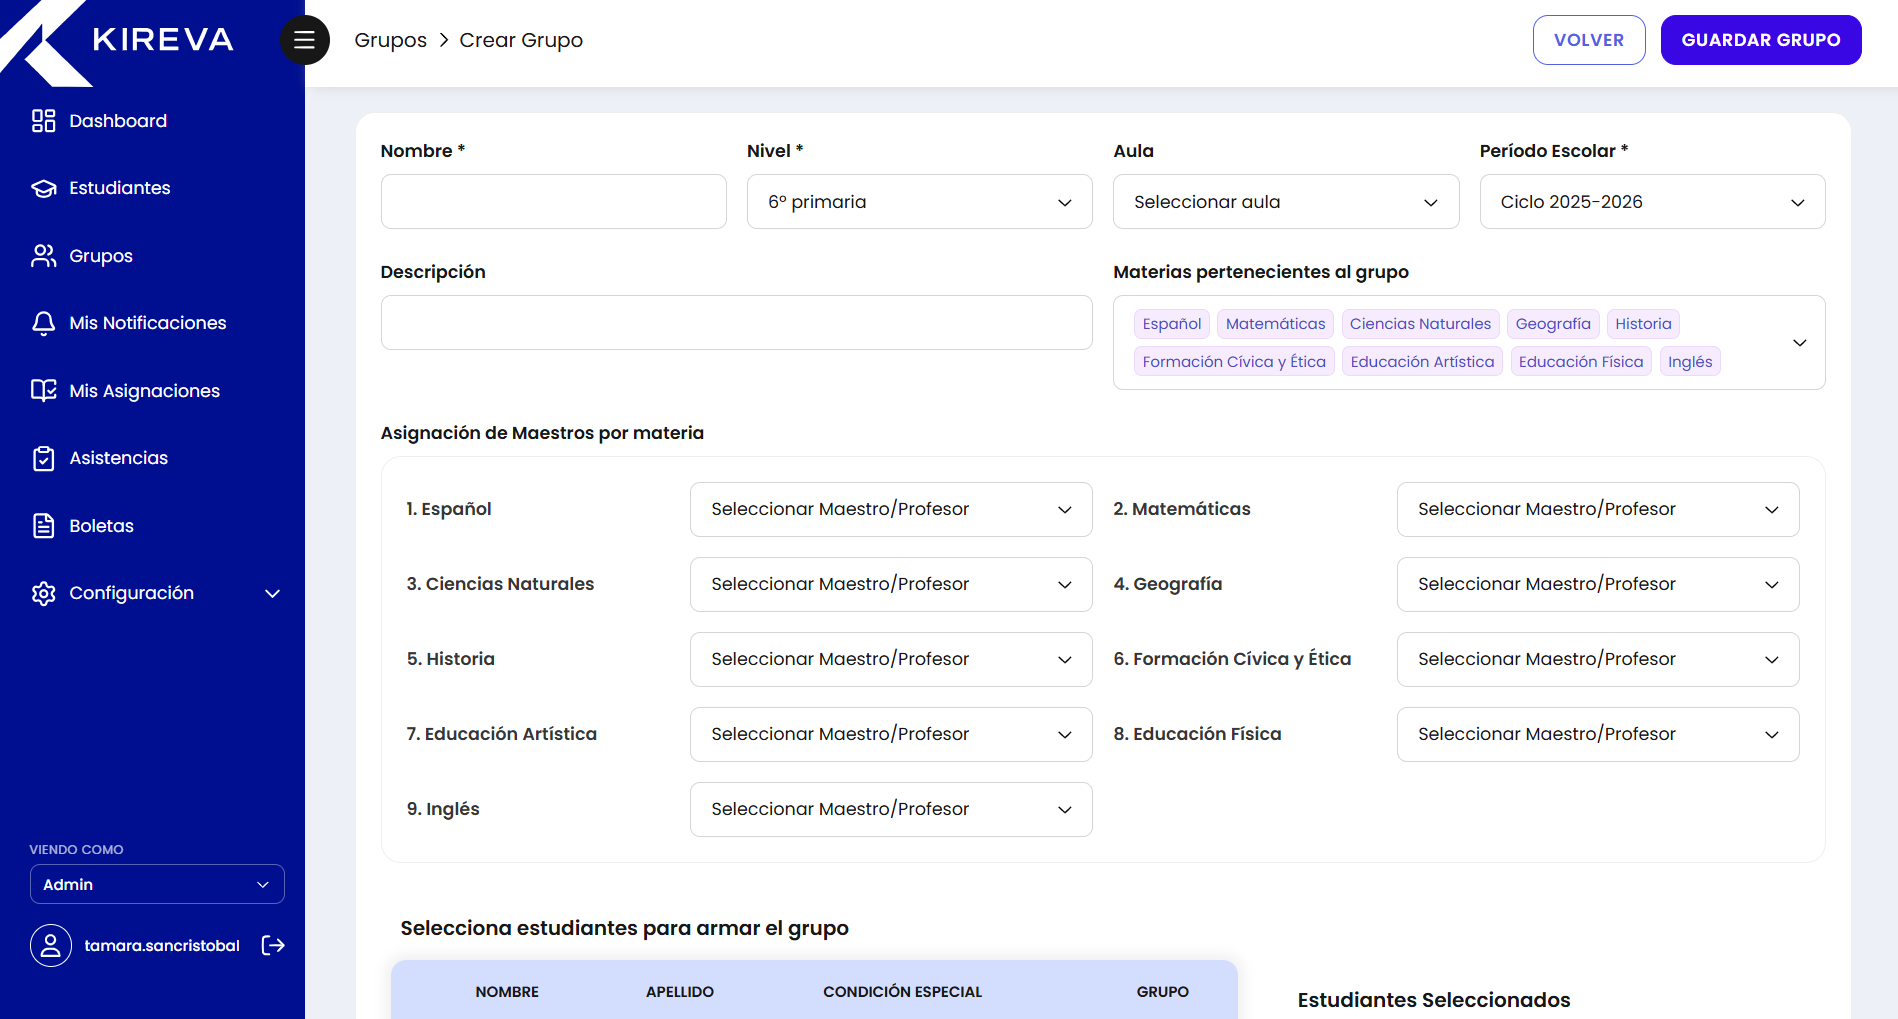
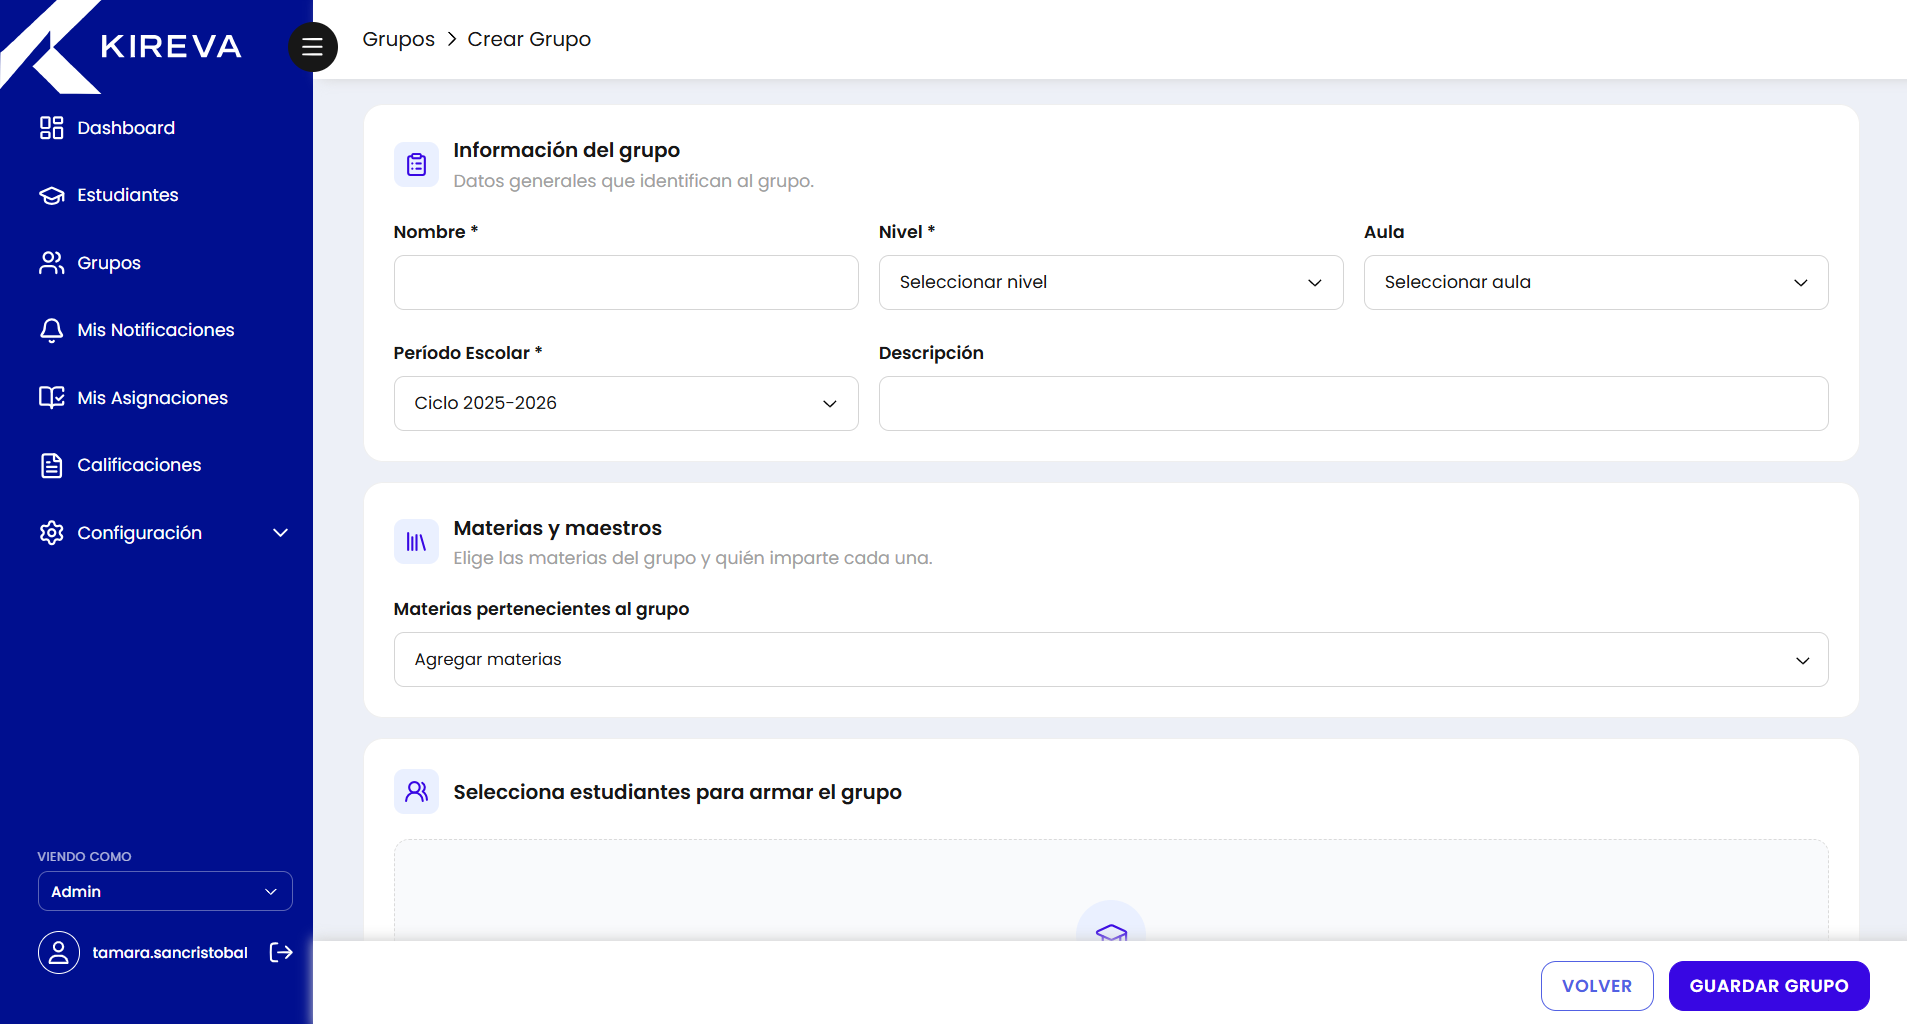
Fix marquee

diff --git a/src/data/content.js b/src/data/content.js
@@ -12,7 +12,7 @@ import kireva from '../assets/kireva.png';
 import kirevaDashboard from '../assets/kireva/dashboard.png';
 import kirevaCreateStudent from '../assets/kireva/create-student.png';
 import kirevaCreateGroup from '../assets/kireva/create-group.png';
-import kirevaCreateRole from '../assets/kireva/create-role.png';
+import kirevaCreateScore from '../assets/kireva/create-score.png';
 import tallied from '../assets/tallied.png';
 import proterisCompliance from '../assets/proteris.png';
 import tadigital from '../assets/ta-digital.png';
@@ -140,7 +140,7 @@ export const PROJECTS = [
     solution: [
       'Kireva is a school management platform where administrators, teachers, and parents each see exactly what their role requires.',
       'Admins manage the full school structure — students (with medical records and emergency contacts), class groups, classrooms, subjects, staff users, and school cycles. Teachers see only their assigned groups and subjects, where they enter grades across evaluation areas, log attendance, and publish report cards through a structured open → close workflow. Parents get a read-only view of their children’s records and school notifications.',
-      'A granular permissions system (13 permissions, fully composable into custom roles) drives role-aware routing and UI throughout — no one lands on a screen they shouldn’t access.',
+      'A granular permissions system (+15 permissions, fully composable into custom roles) drives role-aware routing and UI throughout — no one lands on a screen they shouldn’t access.',
     ],
     stack: ['React', 'TypeScript', 'Next.js', 'Radix UI', 'Redux', 'Axios', 'Figma'],
     cover: kireva,
@@ -149,7 +149,7 @@ export const PROJECTS = [
       { src: kirevaDashboard, label: 'Admin dashboard — school-wide overview and quick actions' },
       { src: kirevaCreateStudent, label: 'Student record — profile, health details and guardians' },
       { src: kirevaCreateGroup, label: 'Group setup — subjects, teacher assignment and roster' },
-      { src: kirevaCreateRole, label: 'Role builder — granular permissions per module' },
+      { src: kirevaCreateScore, label: 'Score group — grades and evaluation areas' },
     ],
   },
   {

diff --git a/src/components/skills/skills.module.css b/src/components/skills/skills.module.css
@@ -17,6 +17,14 @@
   display: inline-flex;
   animation: marquee 26s linear infinite;
 }
+@keyframes marquee {
+  from {
+    transform: translateX(0);
+  }
+  to {
+    transform: translateX(-50%);
+  }
+}
 .marqueeText {
   font-family: var(--mono);
   font-size: 15px;

diff --git a/src/styles/generics.css b/src/styles/generics.css
@@ -72,14 +72,6 @@ body {
   transform: translateY(0);
 }
 
-@keyframes marquee {
-  from {
-    transform: translateX(0);
-  }
-  to {
-    transform: translateX(-50%);
-  }
-}
 @keyframes drift1 {
   0%,
   100% {
